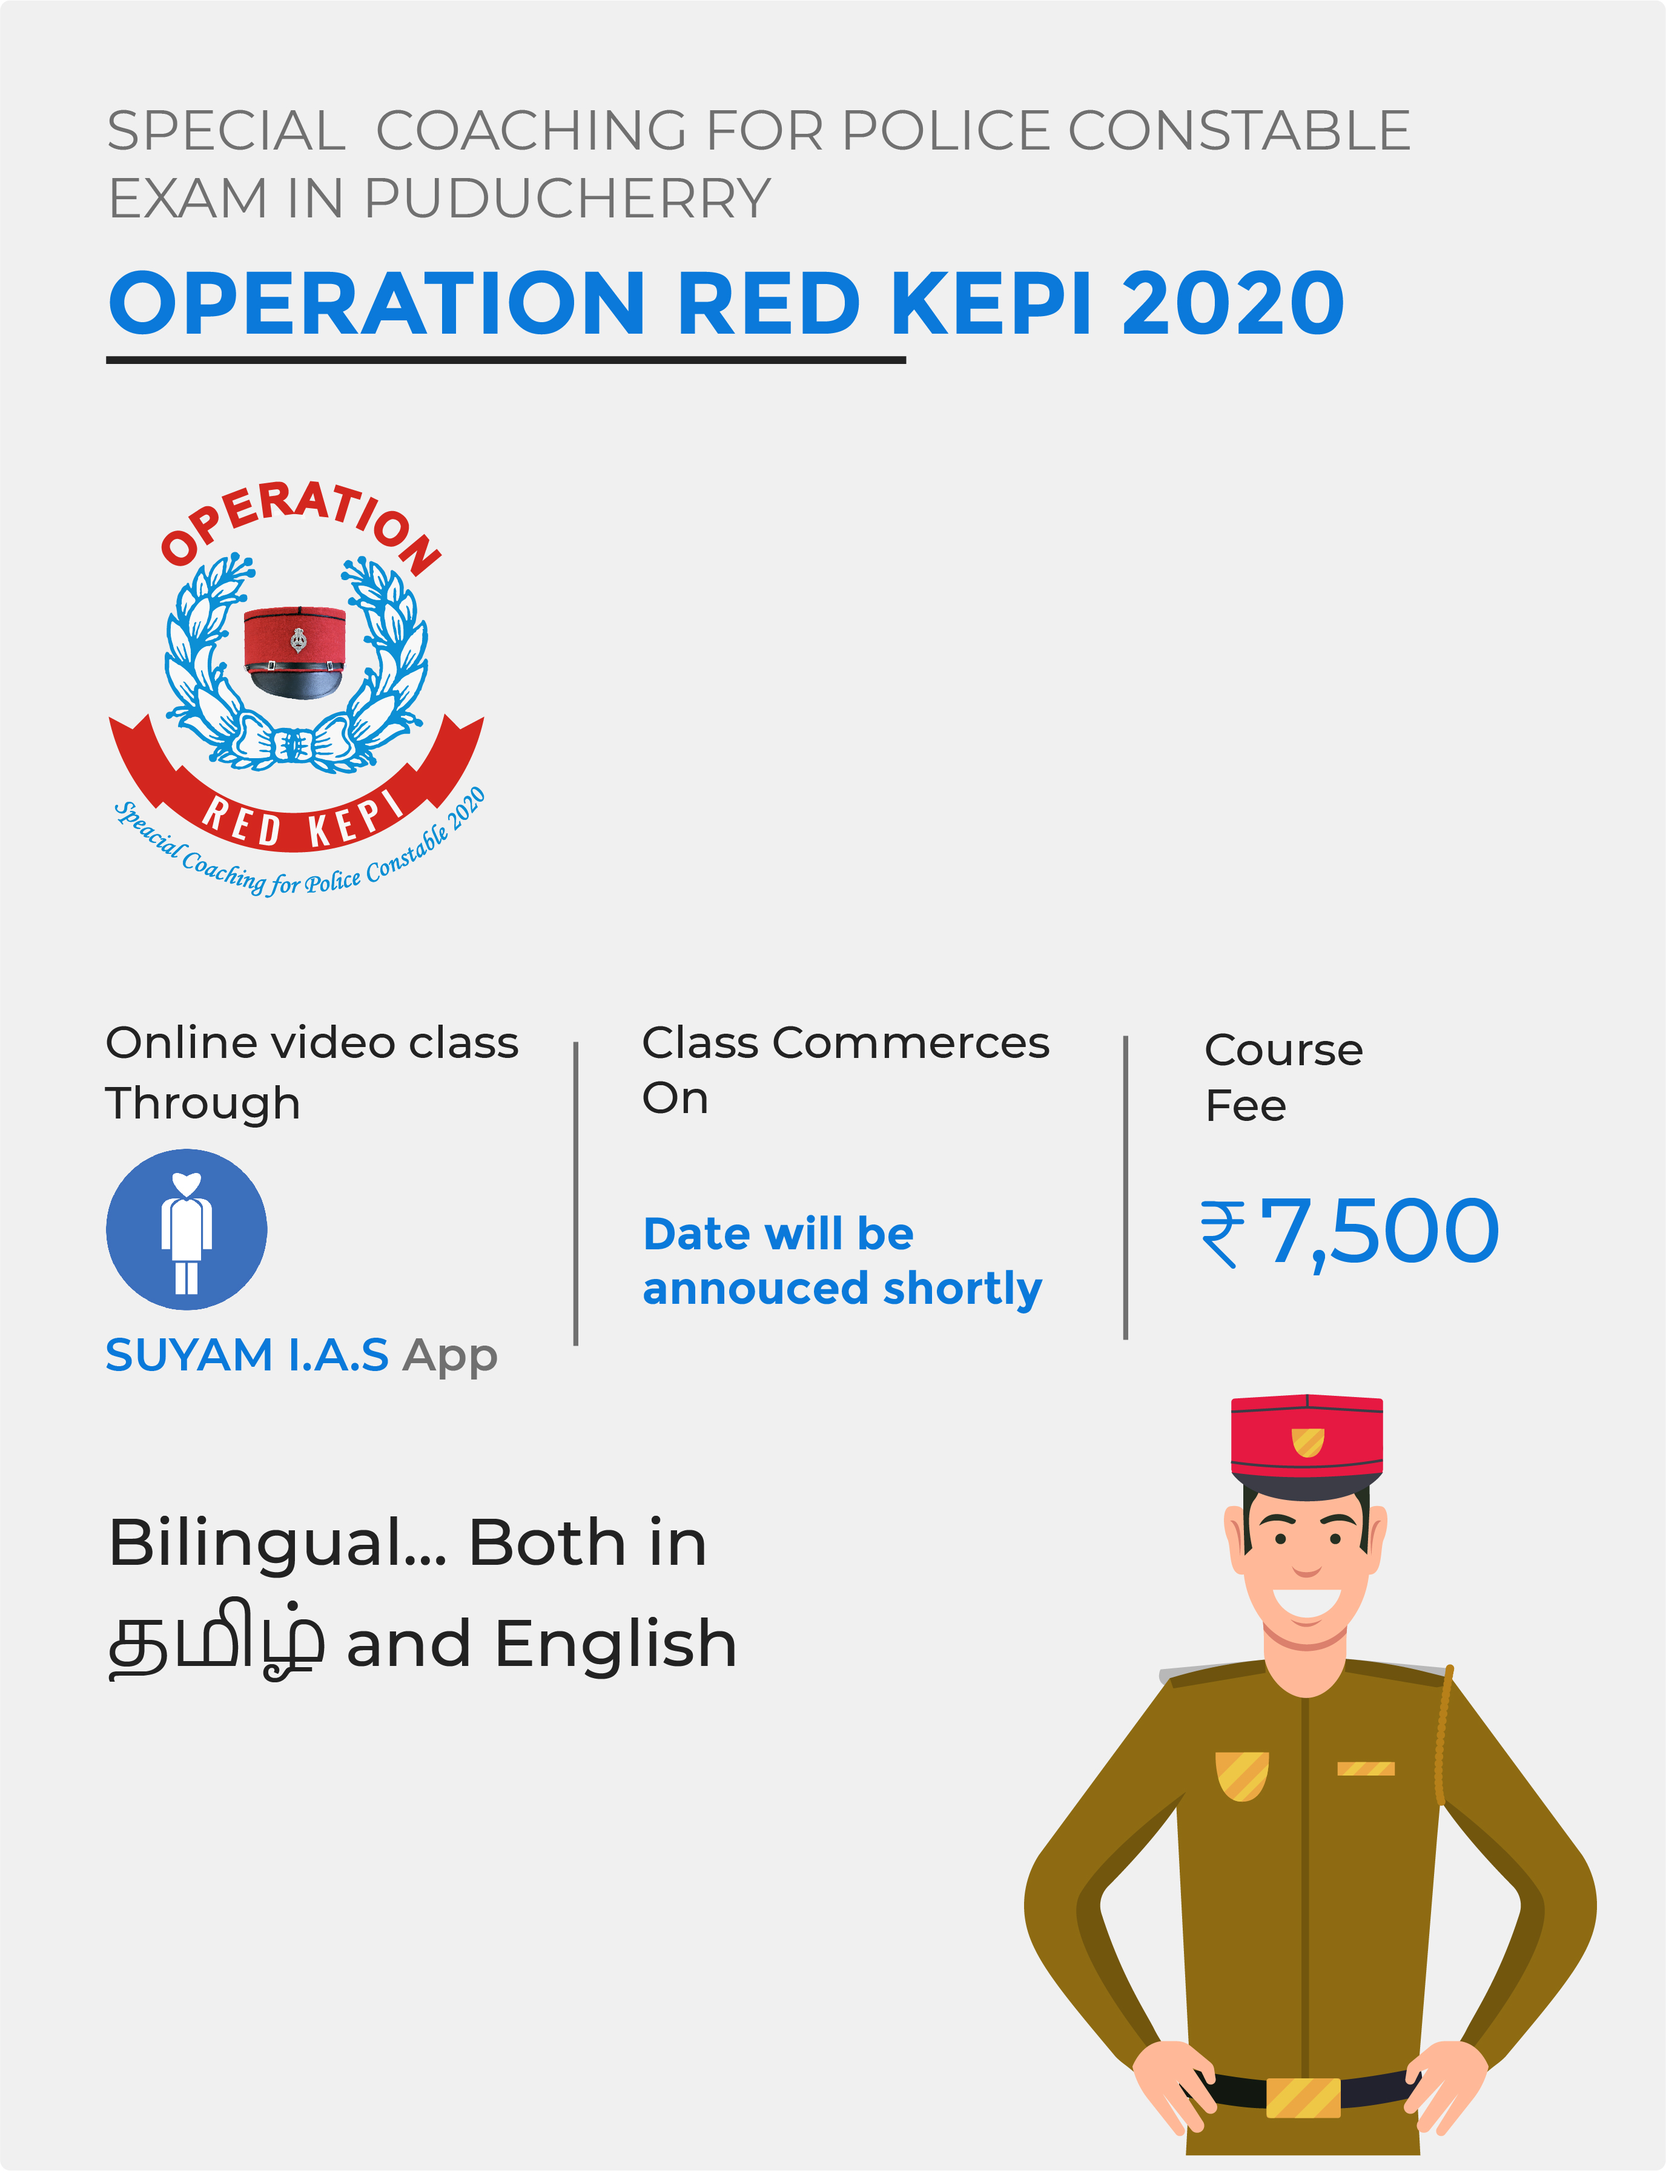
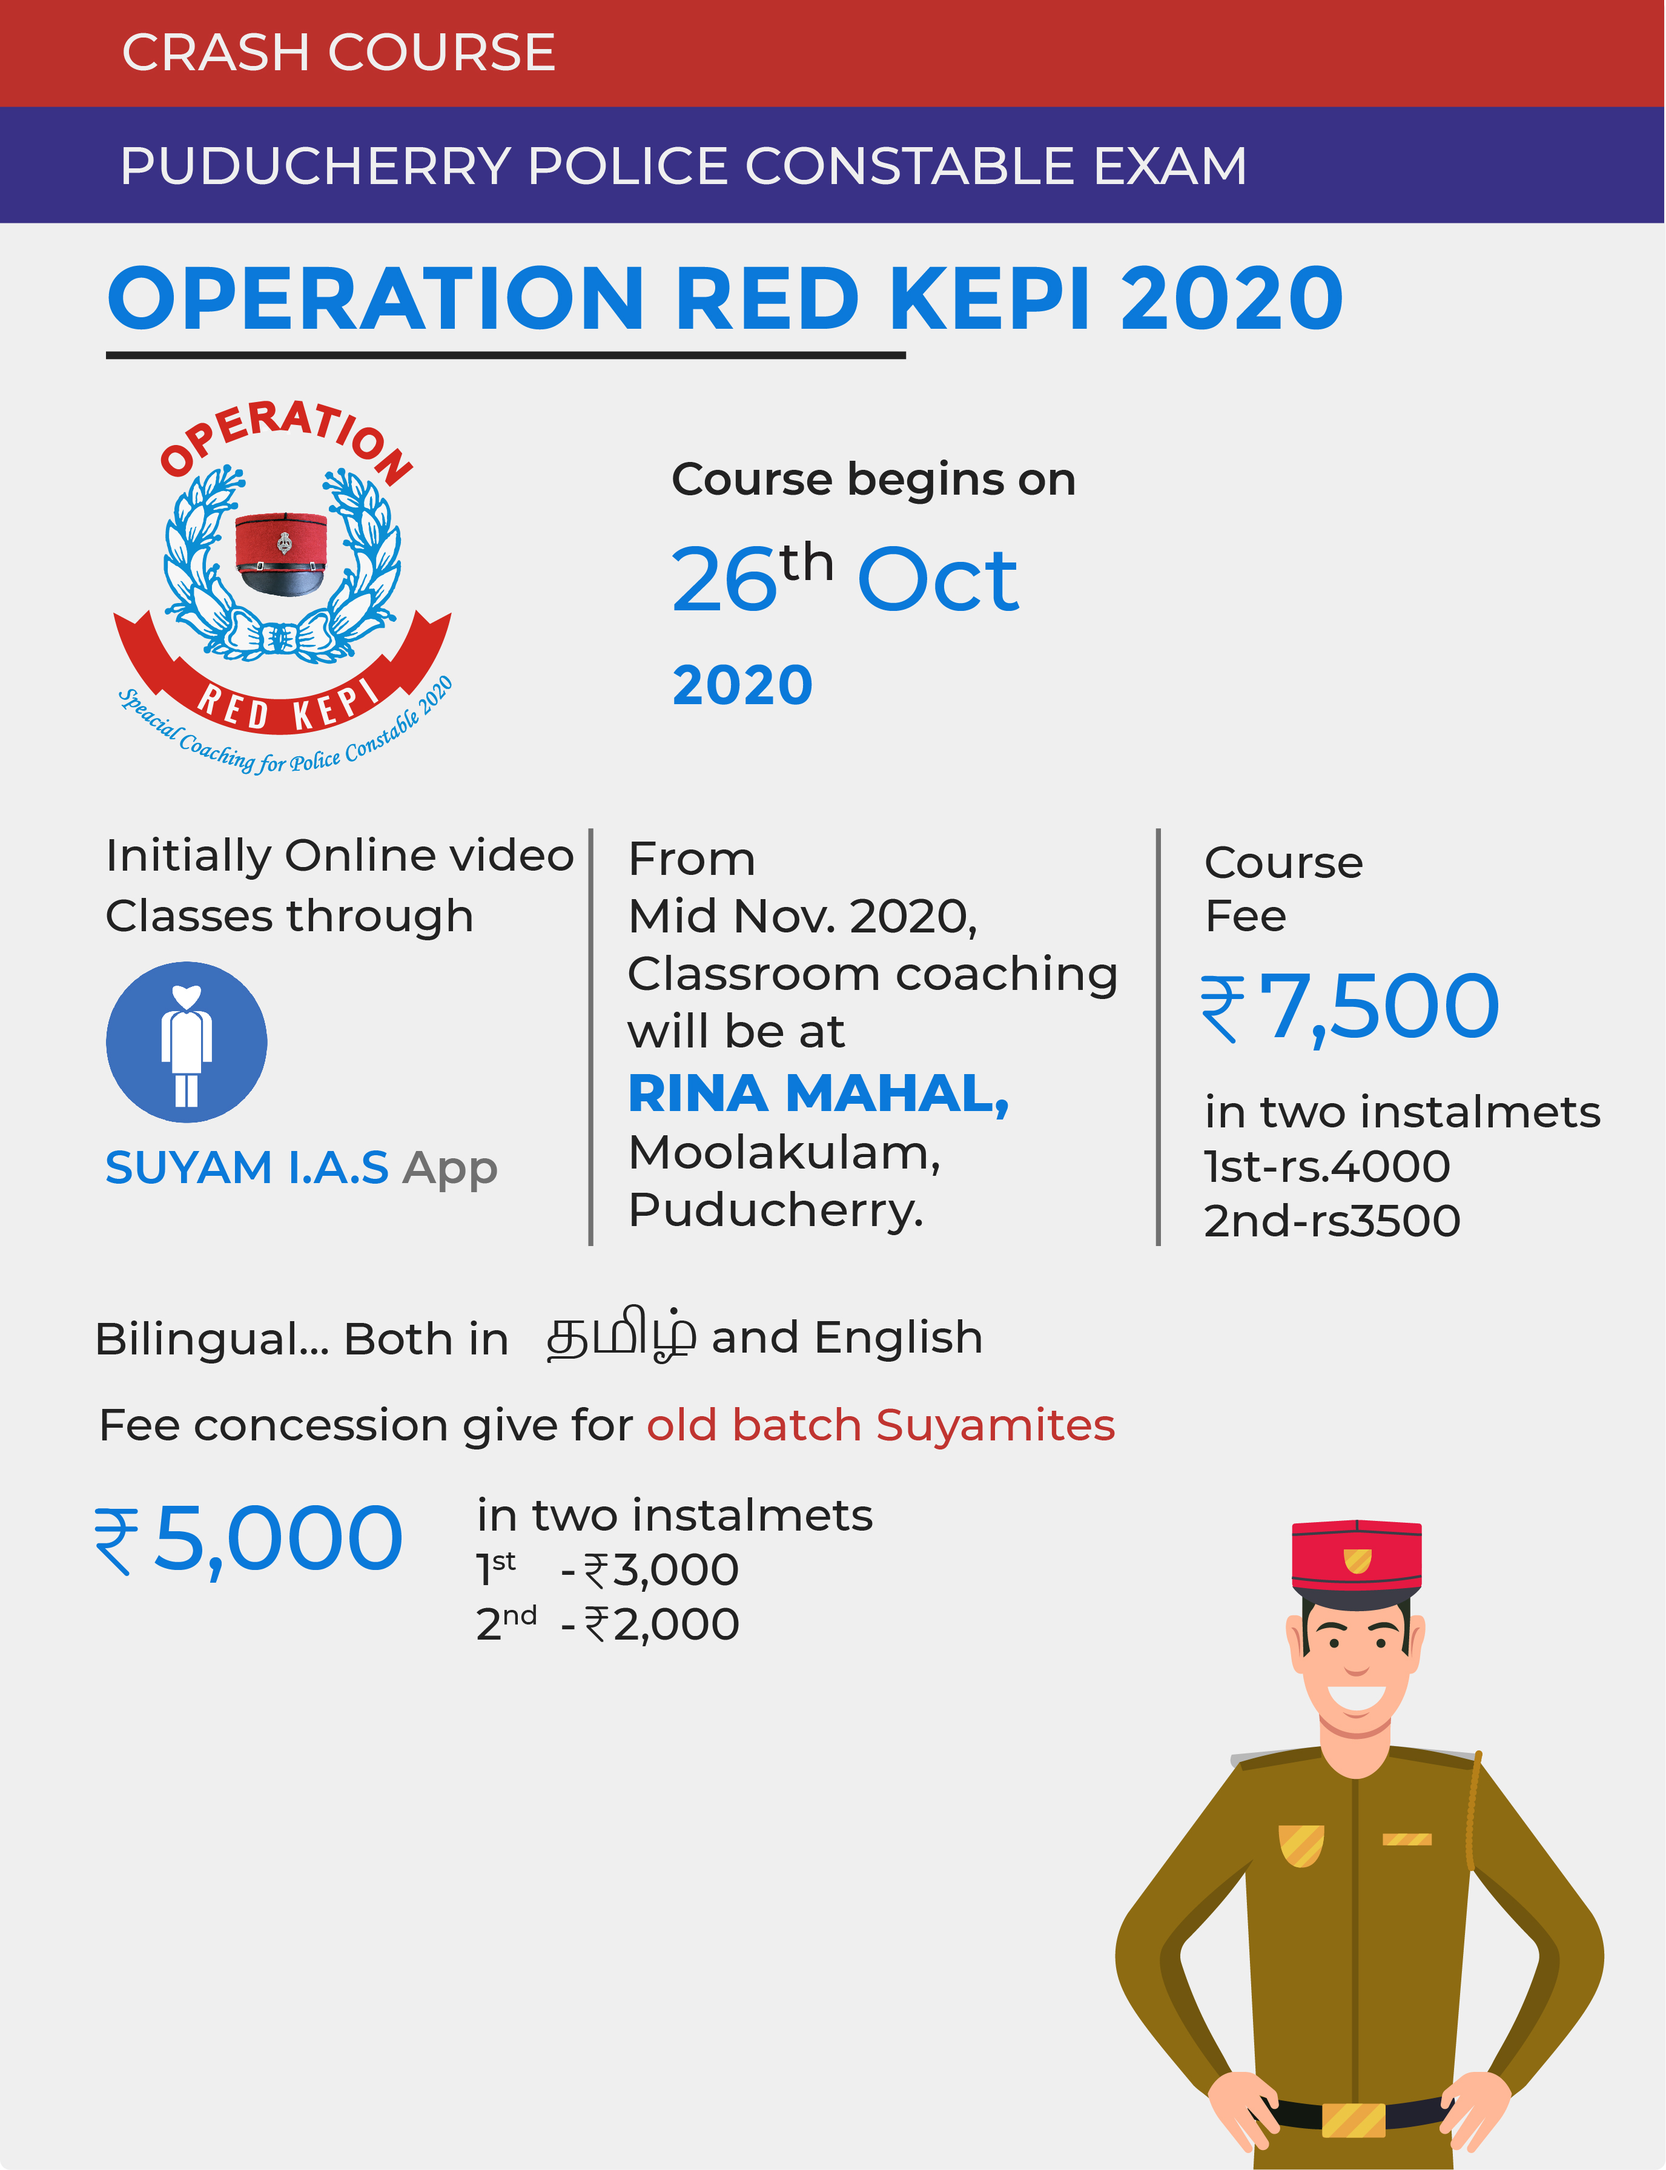
changes-29/10/2020

diff --git a/src/components/RedKepi.js b/src/components/RedKepi.js
@@ -1,7 +1,7 @@
 import React from 'react';
 import { Button } from 'react-bootstrap';
 import { Link } from 'react-router-dom';
-import './RedKepi.css';
+import './Redkepi.css';
 
 export default class RedKepi extends React.Component {
   render() {
@@ -15,26 +15,65 @@ export default class RedKepi extends React.Component {
         <h1 style={{ color: `#0a79df`, fontWeight: `500` }}>
           OPERATION RED KEPI 2020
         </h1>
+        <img
+          style={{ height: `100px`, width: `600px`}}
+          src="assets/redkpired.jpg"
+          alt="suyamapplogo"
+        />
         <p>
-          <b>Special Coaching for Police Constable Exam in Puducherry</b>{' '}
-          through
+          <b>Course begins on <b style={{ color: `#0a79df` }}>26th October</b></b>
         </p>
+        <br/>
+        <br/>
 
+        <p><b>Initially Online Video Classes through</b></p>
         <img
           style={{ height: `100px`, width: `100px`, padding: `20px` }}
           src="assets/suyamapplogo.png"
           alt="suyamapplogo"
         />
         <p>
-          <b style={{ color: `#0a79df` }}>Suyam IAS</b> Mobile App
+          <b style={{ color: `#0a79df` }}>Suyam IAS</b><br/> Mobile App
         </p>
+        <br/>
+        
         <strong>
-          New Batch commences shortly... Date will be announced soon.
+        From Mid Nov. 2020, Classroom coaching will be at
         </strong>
         <br />
         <br />
+        <h5><b style={{ color: `#0a79df` }}>RINA MAHAL,</b></h5>
+        <p><b>Moolakulam, Puducherry</b></p>
+       
+        <div className="rk__table1">
+        <table>
+          <tr>
+            <td>
+            <b>Course Fee : <b style={{ color: `#0a79df` }}>Rs.7500</b><br/>
+               In 2 Instalments<br/>
+                1 st – Rs.4000 (to be paid before 26 th October 2020)<br/>
+                2 nd – Rs.3500 (to be paid immediately after passing<br/>
+                the Physical Ground Test )</b>
+              </td>
+              <td><b>
+              For Old Batch Students : <b style={{ color: `#0a79df` }}>Rs.5000</b><br/>
+              In 2 Instalments<br/>
+              1 st – Rs.3000 (to be paid before 26 th October 2020)<br/>
+              2 nd – Rs.2000 (to be paid immediately after passing<br/>
+              the Physical Ground Test )</b>
+                </td>
+          </tr>
+        </table>  
+        </div>    
+        <br />
+        <p><b>Puducherry Government’s announcement:</b></p>
+        <br />
+        <p><b>Physical Ground Test : From <b style={{ color: `#0a79df` }}>November 4, 2020 </b>to <b style={{ color: `#0a79df` }}> December 3, 2020</b></b></p>
+        <br />
+        <p><b>Written Test :<b style={{ color: `#0a79df` }}> December 20, 2020</b></b></p>
+        <br/>
         <p>
-          This Special Coaching Programme aims at grooming aspirants for the the
+          This Special Crash course Programme aims at grooming aspirants for the the
           much awaited competitive examination for the recruitment of{' '}
           <b>Police Constables</b> in the <b>Government of Puducherry.</b> The
           objective of this Coaching programme is to support the Police
@@ -128,10 +167,12 @@ export default class RedKepi extends React.Component {
         <div>
           <hr />
           <p>
-            The above subjects will be taught by way of a range of pre-recorded
-            video classes, learning materials and online tests through{' '}
-            <b>“Suyam IAS”</b> App.
+          Initially, the above subjects will be taught by way of a range of pre-recorded video classes, learning materials and
+online tests through <b>“Suyam IAS”</b> App.
           </p>
+          <p>
+          From Mid November 2020, Classroom coaching will be conducted at <b style={{ color: `#0a79df` }}>RINA MAHAL,</b> Moolakulam, Puducherry.
+            </p>
           <p>
             Teaching, board works, text materials and test papers will be
             bilingual, ie., both in Tamil and English for the ease of Puducherry
@@ -184,8 +225,7 @@ export default class RedKepi extends React.Component {
         <p>
           Register here to avail the benefits of{' '}
           <b>Operation Red Kepi 2020, </b>
-          Special Coaching for Police Constable Exam in Puducherry through{' '}
-          <b>“Suyam IAS”</b> Mobile App.
+          Special Crash course for Police Constable Exam in Puducherry.
         </p>
         <br />
         <h4>

diff --git a/src/components/Header.js b/src/components/Header.js
@@ -54,12 +54,13 @@ export default class Header extends React.Component {
                   id="basic-nav-dropdown"
                   style={{ paddingLeft: `0px` }}
                 >
-                  <NavDropdown.Item href="/Missionperseverance2020">
-                    Mission Perseverance 2020
-                  </NavDropdown.Item>
                   <NavDropdown.Item href="/OperationRedKEPI2020">
                     Operation Red Kepi 2020
                   </NavDropdown.Item>
+                  <NavDropdown.Item href="/Missionperseverance2020">
+                    Mission Perseverance 2020
+                  </NavDropdown.Item>
+                  
                 </NavDropdown>
                 <Nav.Link href="/Register">
                   <span
@@ -97,10 +98,7 @@ export default class Header extends React.Component {
           </Navbar>
           <div className="announcement">
             <marquee style={{ fontWeight: `400` }}>
-              Special Online Preparatory Course for Competitive Exams in
-              Puducherry Government as well as TNPSC, SSC, RRB and such other
-              exams through “SUYAM I.A.S.” Mobile App commences on October
-              25,2020. Register immediately.
+              Crash course for puducherry Police Constable Exam begins on October 26,2020. Register immediately!!!
             </marquee>
           </div>
         </div>

diff --git a/src/components/home.js b/src/components/home.js
@@ -64,8 +64,8 @@ export default class Home extends React.Component {
             <div className="v2"></div>
             <div className="courses">
               <div class="img-holder">
-                <img src="assets\Coursesi3.jpg" alt="image description" />
-                <Link to="/MissionPerseverance2020">
+                <img src="assets\Coursesi2.jpg" alt="image description" />
+                <Link to="/OperationRedKEPI2020">
                   <Button
                     className="courcbtn"
                     style={{
@@ -79,8 +79,9 @@ export default class Home extends React.Component {
               </div>
 
               <div class="img-holder">
-                <img src="assets\Coursesi2.jpg" alt="image description" />
-                <Link to="/OperationRedKEPI2020">
+                <img src="assets\Coursesi7.jpg" alt="image description" />
+                
+                <Link to="/MissionPerseverance2020">
                   <Button
                     className="courcbtn"
                     style={{

diff --git a/src/components/Payment.js b/src/components/Payment.js
@@ -69,6 +69,20 @@ export default class Payment extends React.Component {
             MICR Code : <span style={{ color: `#0A79DF` }}>605012008</span>
             <br />
           </p>
+          <br/>
+          <img
+          style={{ height: `100px`, width: `200px`, padding: `5px` }}
+          src="assets/gpay.png"
+          alt="suyamapplogo"
+        />
+        <p>G Pay Number :<b style={{ color: `#0A79DF` }}> 9486204334</b></p>
+        <p>UPI ID :<b style={{ color: `#0A79DF` }}> suyamassist@okaxis</b></p>
+        <img
+          style={{ height: `180px`, width: `220px`, padding: `5px` }}
+          src="assets/qrcode.png"
+          alt="suyamapplogo"
+        />
+          <br />
           <br />
           <p>
             Please send payment details / screenshot of payment transaction

diff --git a/src/components/Registration.js b/src/components/Registration.js
@@ -322,8 +322,9 @@ export default class Registration extends Component {
                   <option disabled selected>
                     Select
                   </option>
-                  <option>Mission Perseverance 2020</option>
                   <option>Operation Red Kepi 2020</option>
+                  <option>Mission Perseverance 2020</option>
+                  
                 </Form.Control>
                 {/* <DropDownList
                   className="mb-3"

diff --git a/src/components/MissionPerseverance.js b/src/components/MissionPerseverance.js
@@ -28,7 +28,7 @@ export default class MissionPerseverance extends React.Component {
         <p>
           <p><b  style={{ color: `#0a79df` }}>Suyam IAS</b> Mobile App</p>
         </p>
-        <p>New Batch commences on <b>October 25, 2020</b></p>
+        <p>New Batch commences soon...Date will be announced shortly</p>
         <br />
       
 
